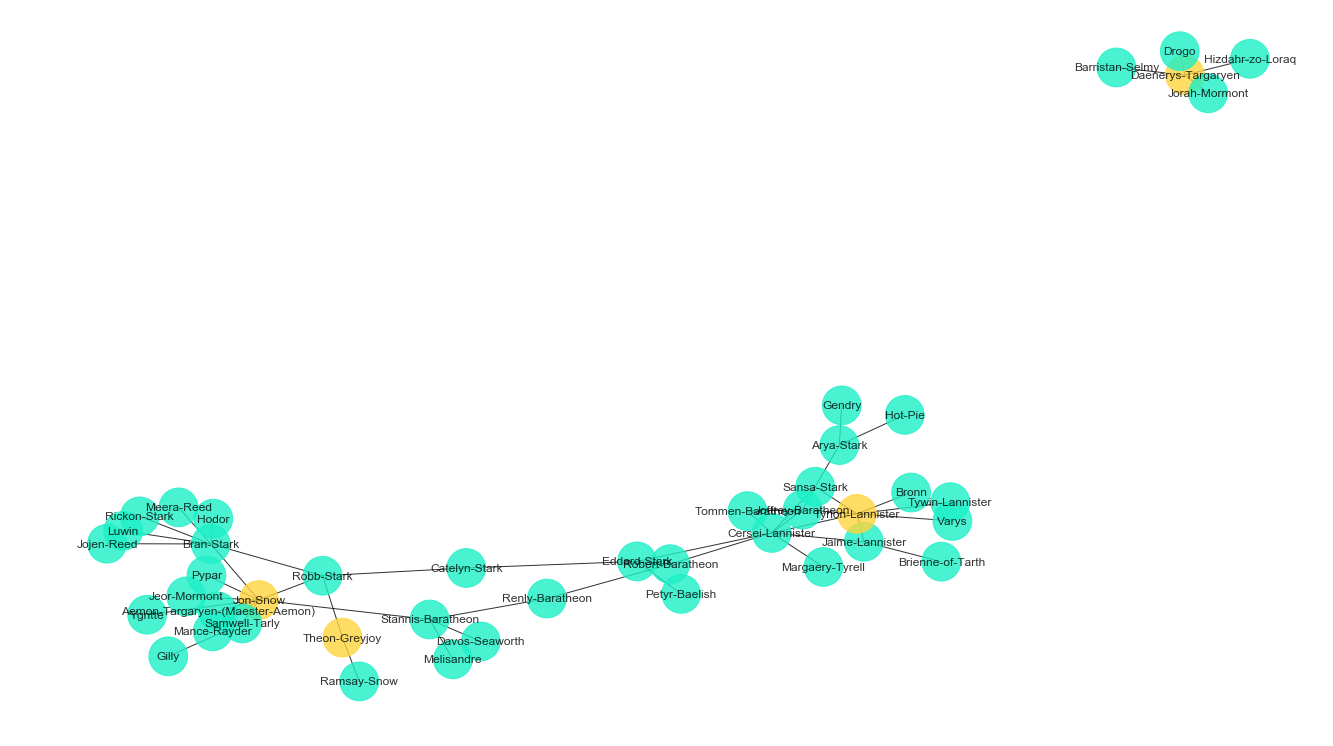
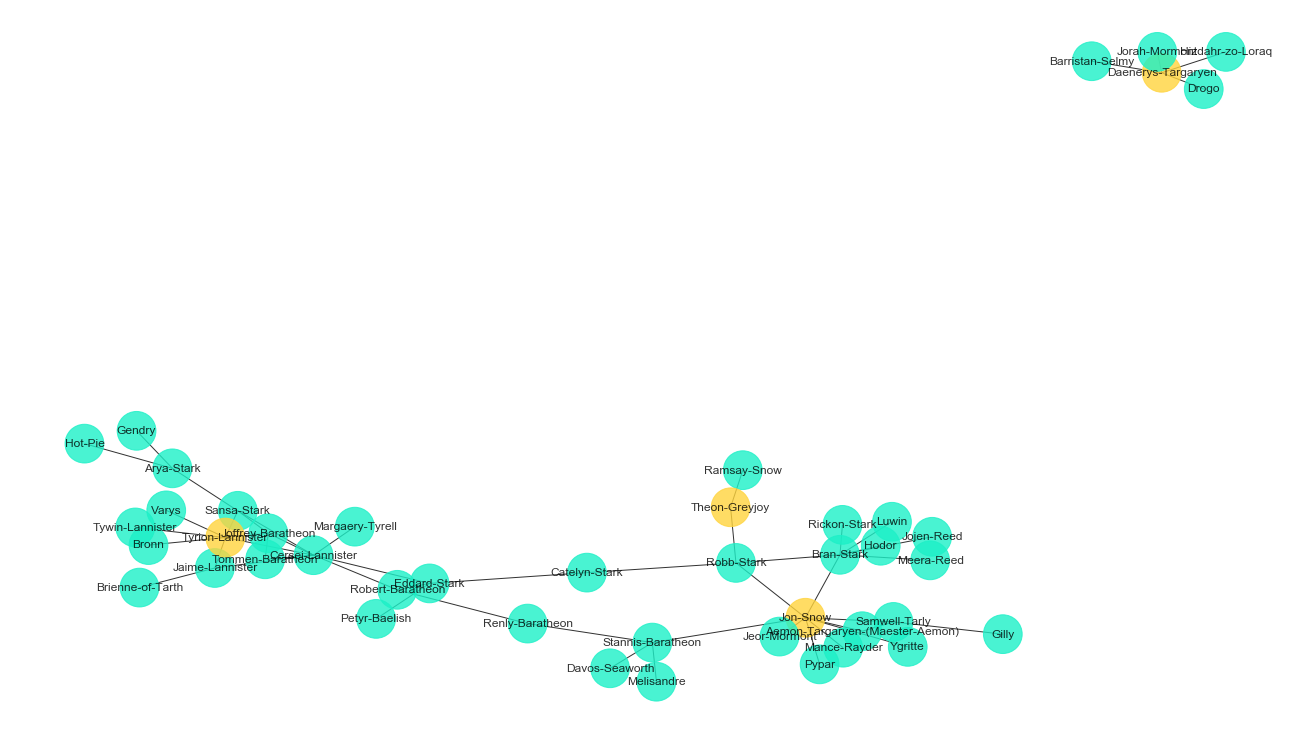
Rm deprectaed random_state keyword arg

Changed region(s): [[0.0305, 0.5095, 0.7939, 0.9591], [0.7939, 0.03, 0.9771, 0.1499]]

diff --git a/README.md b/README.md
@@ -538,9 +538,9 @@ To visualize all of these relationships, draw a graph of the network.
 # __SOLUTION__ 
 edge_labels = labels = nx.get_edge_attributes(G,'weight')
 plt.figure(figsize=(12,12))
-nx.draw(G, with_labels=True, pos=nx.spring_layout(G, random_state=10),
+nx.draw(G, with_labels=True, pos=nx.spring_layout(G),
         edge_labels=edge_labels, alpha=.8, node_color="#1cf0c7", node_size=700);
-nx.draw_networkx_edge_labels(G,pos=nx.spring_layout(G, random_state=10),edge_labels=labels);
+nx.draw_networkx_edge_labels(G,pos=nx.spring_layout(G),edge_labels=labels);
 ```
 
 
@@ -549,7 +549,7 @@ nx.draw_networkx_edge_labels(G,pos=nx.spring_layout(G, random_state=10),edge_lab
 
 ## Subsetting the Graph
 
-As you can see, the above graph is undoubtedly noisy, making it difficult to discern any useful patterns. As such, reset the graph and only add edges whose weight is 75 or greater. From there, redraw the graph. To further help with the display, try using `nx.spring_layout(G, random_state=8)` for the position. To jazz it up, try and recolor those nodes which you identified as bridge or bottleneck nodes to communication.
+As you can see, the above graph is undoubtedly noisy, making it difficult to discern any useful patterns. As such, reset the graph and only add edges whose weight is 75 or greater. From there, redraw the graph. To further help with the display, try using `nx.spring_layout(G)` for the position. To jazz it up, try and recolor those nodes which you identified as bridge or bottleneck nodes to communication.
 
 
 ```python
@@ -576,7 +576,7 @@ for node in G.nodes:
     else:
         colors.append("#1cf0c7")
 plt.figure(figsize=(18,10))
-nx.draw(G, with_labels=True, pos=nx.spring_layout(G, random_state=8),
+nx.draw(G, with_labels=True, pos=nx.spring_layout(G),
         edge_labels=edge_labels, alpha=.8, node_color=colors, node_size=1500);
 ```
 
